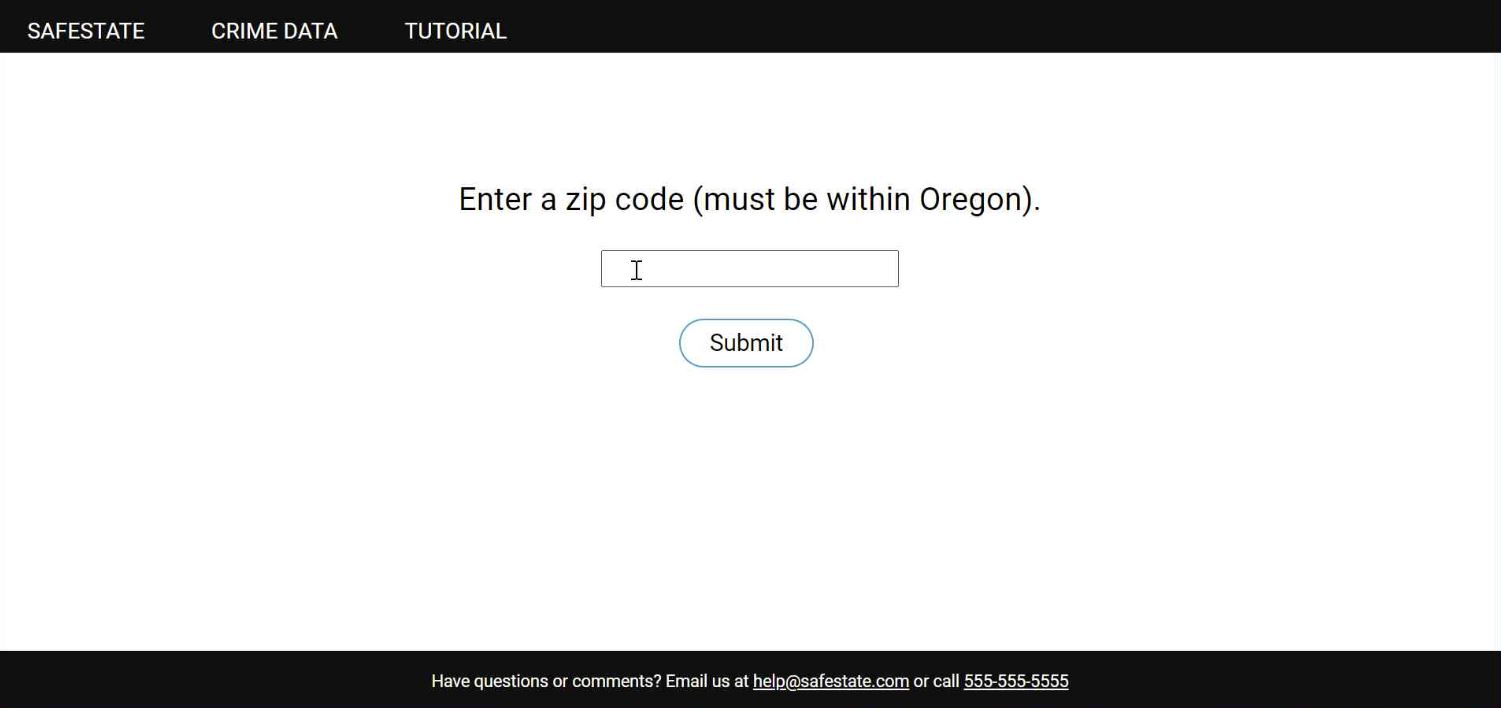
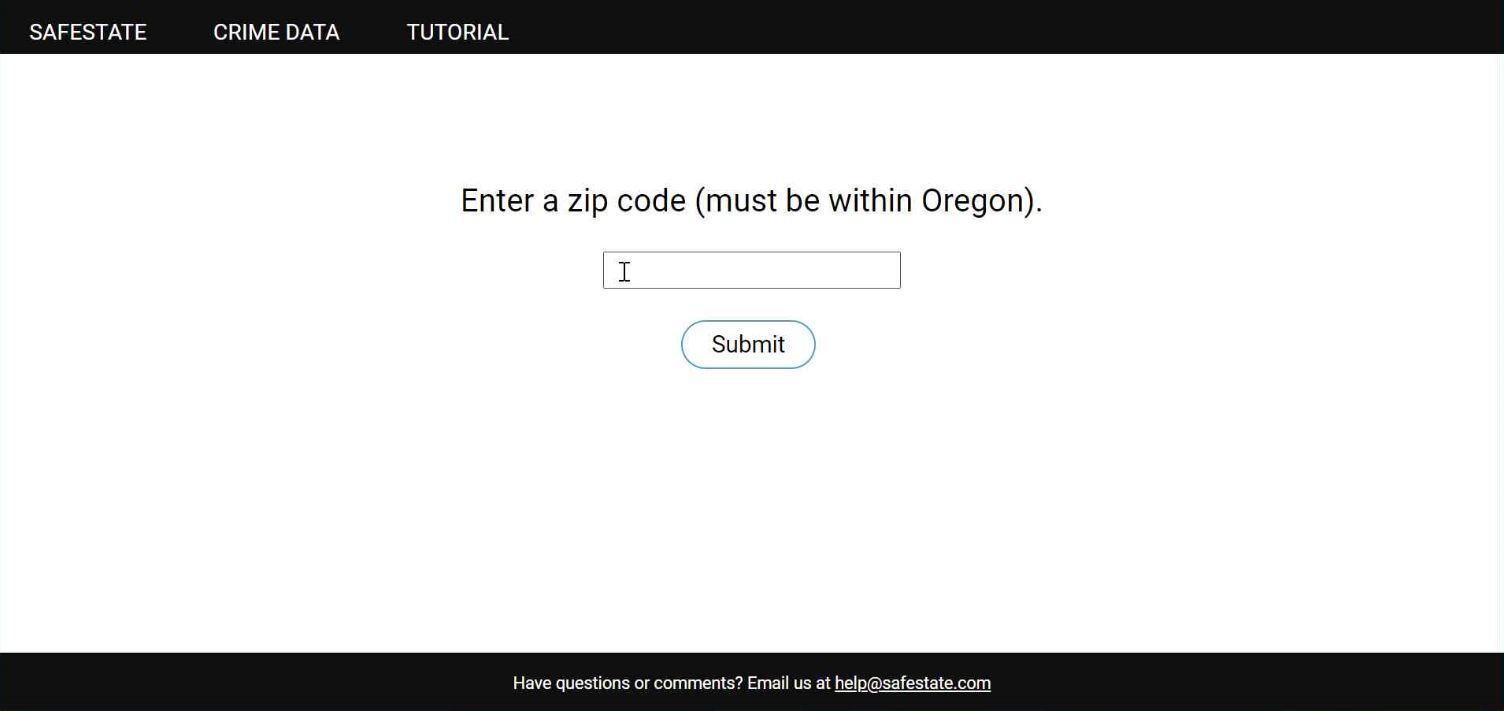
updated images, used latest version of teammate's service, removed some code smell cases

diff --git a/crime-stats-service/getStats.js b/crime-stats-service/getStats.js
@@ -47,18 +47,18 @@ app.get('/stats/', function(req, res){
                     axios.get('http://localhost:2000/api/crimeincidents/?zipcode='+zipCode)
                     .then(response => {
                         let data = response.data;
-                        context['mvThefts'] = data['Motor Vehicle Theft']; 
-                        context['robberies'] = data['Robbery'];
-                        context['wlvs'] = data['Weapon Law Violations'];
-                        context['assaults'] = data['Simple Assault'];
+                        context.mvThefts = data['Motor Vehicle Theft'];
+                        context.robberies = data['Robbery'];
+                        context.wlvs = data['Weapon Law Violations'];
+                        context.assaults = data['Simple Assault'];
                         context.mvTheftDates = Object.keys(data['Motor Vehicle Theft']);
-                        context['mvTheftOffenses'] = Object.values(data['Motor Vehicle Theft']);
-                        context['robberyDates'] = Object.keys(data['Robbery']);
-                        context['robberyOffenses'] = Object.values(data['Robbery']);
-                        context['wlvDates'] = Object.keys(data['Weapon Law Violations']);
-                        context['wlvOffenses'] = Object.values(data['Weapon Law Violations']);
-                        context['assaultDates'] = Object.keys(data['Simple Assault']);
-                        context['assaultOffenses'] = Object.values(data['Simple Assault']);
+                        context.mvTheftOffenses = Object.values(data['Motor Vehicle Theft']);
+                        context.robberyDates = Object.keys(data['Robbery']);
+                        context.robberyOffenses = Object.values(data['Robbery']);
+                        context.wlvDates = Object.keys(data['Weapon Law Violations']);
+                        context.wlvOffenses = Object.values(data['Weapon Law Violations']);
+                        context.assaultDates = Object.keys(data['Simple Assault']);
+                        context.assaultOffenses = Object.values(data['Simple Assault']);
 
                         const info = { 'zipCode': parseInt(zipCode) };
                         axios.post('http://localhost:8222/sight-ideas/', info)
@@ -113,7 +113,7 @@ app.get('/stats/', function(req, res){
 });
 
 app.get('/getsights/', (req, res) => {
-    ////CONVERTING THE INPUT TO ZIP CODE
+    // converting the input to a number
     const input = req.query.input;
     let modInput = parseFloat(input);
     let context = {};
@@ -213,7 +213,7 @@ app.get('/nearbyagencies', (req, res) => {
                         else if(element['agency_name'].indexOf('SO') > -1){
                             const soReplace = "Sheriff's Office";
                             element.agency_name = element.agency_name.replace('SO', soReplace);
-                        }   
+                        }
                             agencies.push(element.agency_name);
                     });
                     res.send(agencies);

diff --git a/crime-stats-service/services/crimeService.js b/crime-stats-service/services/crimeService.js
@@ -53,20 +53,20 @@ function getIncidentsFromCounty(countyName){
             "Simple Assault": []};
         let dates = {};
         result.forEach(element => {
-            let updated_date = new Date(element.incident_date.toString())
+            let updatedDate = new Date(element.incident_date.toString())
                 .toLocaleDateString('en-US').replace(/\//g, "-");
-            let split_date = updated_date.split('-');
-            if (split_date[0].length === 1){
-            split_date[0] = '0'+split_date[0];
+            let splitDate = updatedDate.split('-');
+            if (splitDate[0].length === 1){
+            splitDate[0] = '0'+splitDate[0];
           }
-          if (split_date[1].length === 1){
-            split_date[1] = '0'+split_date[1];
+          if (splitDate[1].length === 1){
+            splitDate[1] = '0'+splitDate[1];
           }
-          updated_date = split_date[0]+'-'+split_date[1]+'-'+split_date[2];
-          if (!moment(updated_date).format('MMM YY') in dates){
-            dates[moment(updated_date).format('MMM YY')] = element.distinct_offenses;
+          updatedDate = splitDate[0]+'-'+splitDate[1]+'-'+splitDate[2];
+          if (!moment(updatedDate).format('MMM YY') in dates){
+            dates[moment(updatedDate).format('MMM YY')] = element.distinct_offenses;
           }
-          else {dates[moment(updated_date).format('MMM YY')] += element.distinct_offenses}
+          else {dates[moment(updatedDate).format('MMM YY')] += element.distinct_offenses}
           data[element.nibrs_crime_desc]
               .push({"incident_date":element.incident_date,
                   "distinct_offenses":element.distinct_offenses});

diff --git a/home.html b/home.html
@@ -48,14 +48,14 @@
     </p>
     <img src="./public/images/crimedataform.JPG" alt="" width=50%>
     <p class='step_title'>Enter a zip code that is within Oregon and click Submit.</p>
-    <img src="./public/images/submitform.JPG" alt="" width=50%>
+    <img src="./public/images/submitform.JPG" width=50%>
     <p class='step_title'>You'll be taken to a page of crime statistics for your zip code.</p>
     <img src="./public/images/viewcrimestats.JPG" alt="" width=50%>
     <p class='step_title'>Scroll down to see information about the chosen area.</p>
     <img src="./public/images/viewzipinfo.JPG" alt="" width=50%>
     <p class='step_title'>Click on Crime Data in the menu to go back to the form.</p>
     <img src="./public/images/clickcrimedata.JPG" alt="" width=50%>
-    <img src="./public/images/backtoform.JPG" alt="" width=50%>
+    <img src="./public/images/crimedataform.JPG" alt="" width=50%>
     <!--Tutorial end-->
 
     <section id='footer'>
@@ -63,8 +63,6 @@
             <p>
                 Have questions or comments? Email us at 
                 <a id='email' href="mailto: help@safestate.com">help@safestate.com</a> 
-                or call 
-                <a id='phone' href="tel: 555-555-5555">555-555-5555</a>
             </p>
         </div>
     </section>

diff --git a/public/css/stats1.css b/public/css/stats1.css
@@ -30,14 +30,13 @@ canvas {
     margin-right: 5vh;
 }
 
-#mapsbutton a {
+#maps_button a {
     font-family: 'Roboto', sans-serif;
-    font-size: 16px;
+    font-size: 22px;
     cursor: pointer;
     display: inline-block;
     padding: 0.35em 1.2em;
     border: 0.1em solid #409fbf;
-    /*border-radius:0.12em;*/
     box-sizing: border-box;
     text-decoration: none;
     font-weight:300;
@@ -45,9 +44,10 @@ canvas {
     text-align:center;
     transition: all 0.2s;
     border-radius: 25px;
+    margin: 0 0.3em 0.3em 5vh;
 }
 
-#mapsbutton a:hover {
+#maps_button a:hover {
     color:white;
     background-color: #409fbf;
 

diff --git a/start.html b/start.html
@@ -48,8 +48,6 @@
                 <p>
                     Have questions or comments? Email us at 
                     <a id='email' href='mailto: help@safestate.com'>help@safestate.com</a> 
-                    or call 
-                    <a id='phone' href='tel: 555-555-5555'>555-555-5555</a>
                 </p>
             </div>
         </section>
